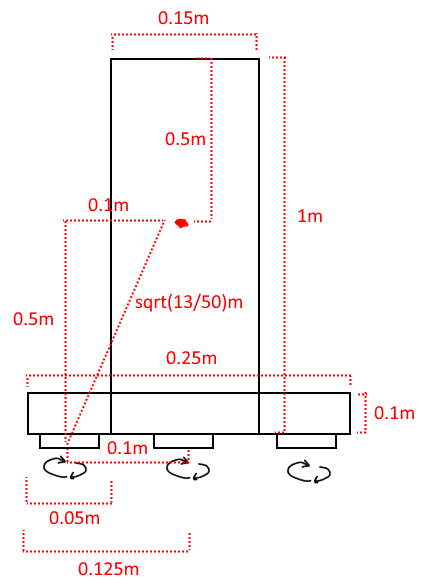
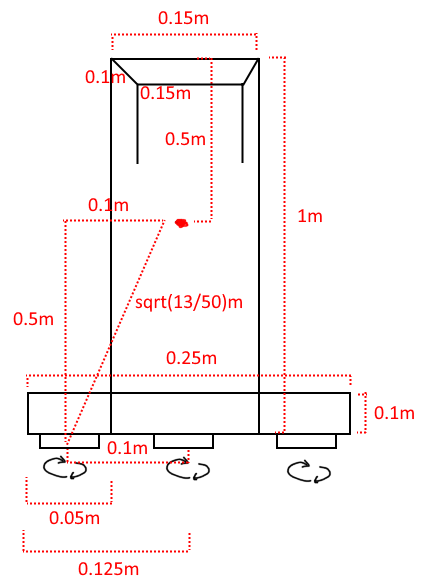
More Physics
Added Buoyancy, Gravity, and a better Drag formula.

Changed region(s): [[0.1848, 0.0922, 0.5853, 0.2765], [0.5853, 0.0922, 0.6161, 0.1229]]

diff --git a/Simulation/auv_sim.py b/Simulation/auv_sim.py
@@ -152,8 +152,17 @@ class AUVSim:
             self._angular_velocity * delta_time
         )
 
+        # Gravity
+        gravity_force = self.get_mass() * -9.81 * np.array([0, 0, 1.0])
+        total_force += gravity_force
+
+        # Buoyancy
+        if (self._position[2] <= 0):
+            buoyancy_force = 1025 * 0.015 * 9.81 * np.array([0, 0, 1.0])
+            total_force += buoyancy_force
+
         # Drag
-        drag_force = -self._drag_cof * self._velocity
+        drag_force = 0.5 * 1025 * (self._velocity ** 2) * self._drag_cof * 0.015
         total_force += drag_force
 
         # Acceleration
